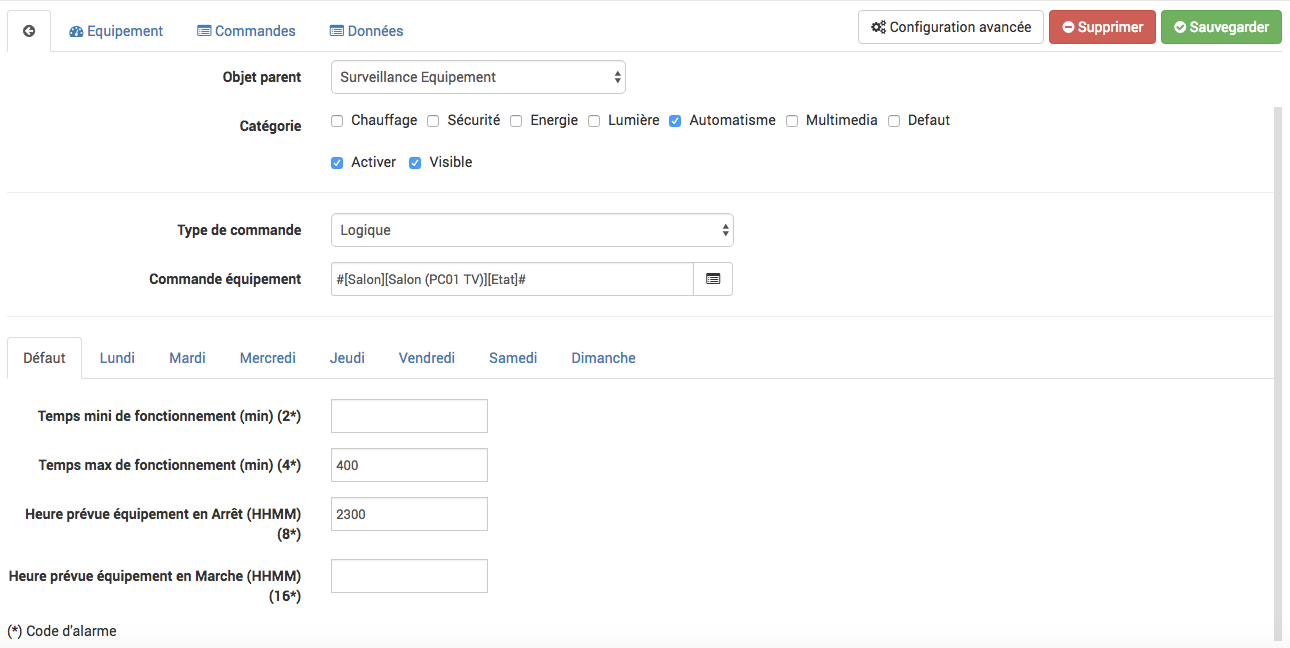
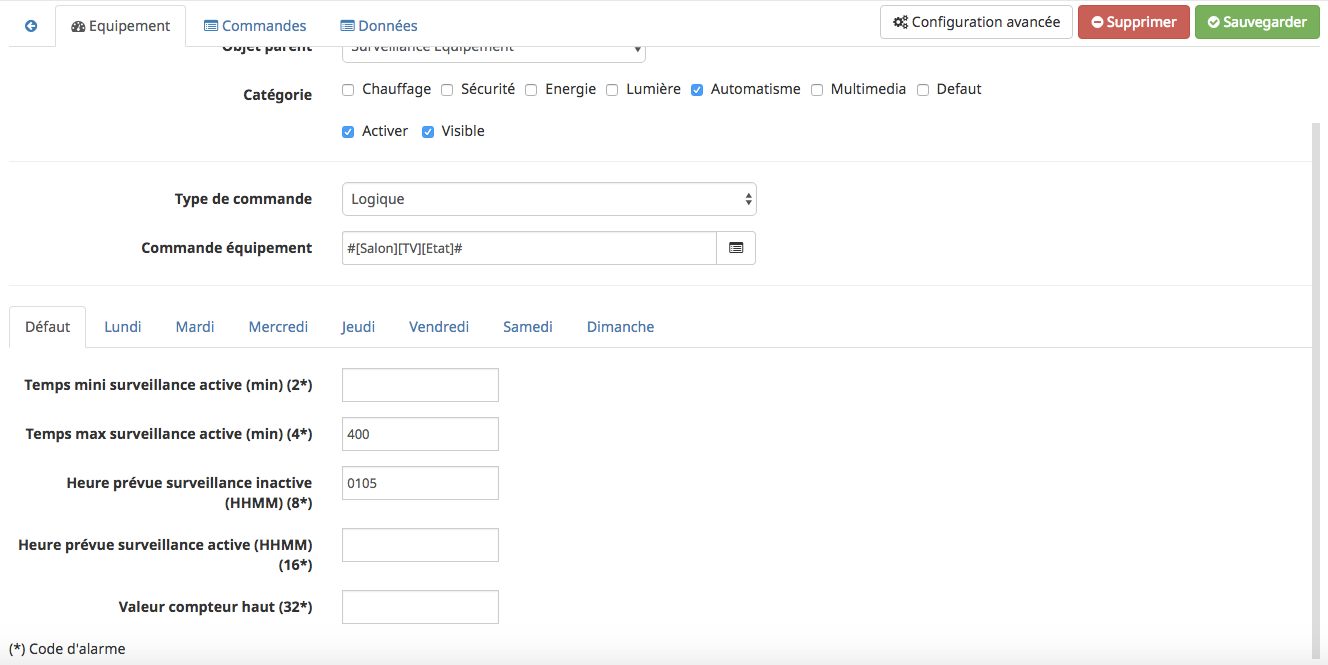
[ROBOT] Push html doc

diff --git a/third_plugin/ethalsurveillance/fr_FR/index.html b/third_plugin/ethalsurveillance/fr_FR/index.html
@@ -1079,18 +1079,18 @@ Si la commande <strong>Alarme</strong> est déja à ON , et qu&#8217;une nouvell
 <p><strong>Commande équipement</strong> : mettre la commande état de la prise qui commande votre télévision</p>
 </li>
 <li>
-<p><strong>Temps min de fonctionnement</strong> : laisser vide</p>
+<p><strong>Temps mini surveillance active</strong> : laisser vide</p>
 </li>
 <li>
-<p><strong>Temps max de fonctionnement</strong> (minutes) : mettre par exemple 400</p>
+<p><strong>Temps max surveillance active</strong> (minutes) : mettre par exemple 400</p>
 </li>
 <li>
-<p><strong>Heure prévue équipement en Arrêt (HHMM)</strong> : mettre par exemple 2300</p>
+<p><strong>Heure prévue surveillance inactive</strong> : mettre par exemple 0105</p>
 </li>
 </ul>
 </div>
 <div class="paragraph">
-<p>Cela signifie que la commande <strong>Alarme</strong> passera à 1 au bout de 400 minutes (soit 6 heures et 40 minutes, cela commence à faire beaucoup ;)) ou à 23H00 si la commande <strong>Etat</strong> est toujours à ON (c&#8217;est à dire votre TV est toujours allumée).
+<p>Cela signifie que la commande <strong>Alarme</strong> passera à 1 au bout de 400 minutes (soit 6 heures et 40 minutes, cela commence à faire beaucoup ;)) ou à 01H05 si la commande <strong>Etat</strong> est toujours à ON (c&#8217;est à dire votre TV est toujours allumée).
 Le compteur sera incrémenté à chaque passage à ON de votre commande.</p>
 </div>
 <div class="paragraph">
@@ -1126,21 +1126,21 @@ Le compteur sera incrémenté à chaque passage à ON de votre commande.</p>
 <p><strong>Compteur général</strong> : coché</p>
 </li>
 <li>
-<p><strong>Heure de fonctionnement pévu</strong> : mettre l&#8217;heure prévue de mise en route de votre chauffe-eau (ex : 2330)</p>
+<p><strong>Heure de surveillance prévue</strong> : mettre l&#8217;heure prévue de mise en route de votre chauffe-eau (ex : 2330)</p>
 </li>
 <li>
-<p><strong>Puissance équipement</strong> : mettre une valeur légérement inférieur à la puissance de votre chauffe-eau (ex : si votre chauffe eau est un 2000W , mettre 1800)</p>
+<p><strong>Valeur surveillance active</strong> : mettre une valeur légérement inférieur à la puissance de votre chauffe-eau (ex : si votre chauffe eau est un 2000W , mettre 1800)</p>
 </li>
 <li>
-<p><strong>Temps min de fonctionnement</strong> (minutes) : mettre par exemple 20</p>
+<p><strong>Temps mini surveillance active</strong> (minutes) : mettre par exemple 20</p>
 </li>
 <li>
-<p><strong>Temps max de fonctionnement</strong> (minutes) : mettre par exemple 240</p>
+<p><strong>Temps max surveillance active</strong> (minutes) : mettre par exemple 360</p>
 </li>
 </ul>
 </div>
 <div class="paragraph">
-<p>cela signifie que la commande <strong>Alarme</strong> passera à ON à 00:10 (23h30+20 minutes) si l&#8217;équipement n&#8217;a pas demarré ou si son temps de fonctionnement est inférieur à 20 minutes ou supérieur à 4 heures.</p>
+<p>cela signifie que la commande <strong>Alarme</strong> passera à ON à 00:10 (23h30+20 minutes) si l&#8217;équipement n&#8217;a pas demarré ou si son temps de fonctionnement est inférieur à 20 minutes ou supérieur à 6 heures.</p>
 </div>
 <div class="paragraph">
 <p>Pour un widget personalisé à l&#8217;équipement, selectionnez les commandes comme ci-dessous :</p>
@@ -1175,28 +1175,26 @@ Le compteur sera incrémenté à chaque passage à ON de votre commande.</p>
 <p><strong>Compteur général</strong> : non coché</p>
 </li>
 <li>
-<p><strong>Puissance mini</strong> (Watt) : si votre lave-linge consomme environ 10W mini pendant un cyle, mettre 10</p>
+<p><strong>Valeur surveillance inactive</strong> : si votre lave-linge consomme environ 10W mini pendant un cyle, mettre 10</p>
 </li>
 <li>
-<p><strong>Délai Puissance mini</strong> (Watt) : il est possible que le lave-linge passe en dessous de la puissance mini pendant un cycle, dans ce cas mettre par exemple 12, il faudra alors que la valeur de la puissance mini soit à 10W pendant 12 min pour être prise en compte</p>
+<p><strong>Délai valeur surveillance inactive</strong> : il est possible que le lave-linge passe en dessous de la puissance mini pendant un cycle, dans ce cas mettre par exemple 12, il faudra alors que la valeur de la puissance mini soit à 10W pendant 12 min pour être prise en compte</p>
 </li>
 <li>
-<p><strong>Puissance maxi</strong> (Watt) : si votre lave-linge consomme environ 100W au démarrage d&#8217;un cyle, mettre 100</p>
+<p><strong>Valeur surveillance active</strong> : si votre lave-linge consomme environ 200W au démarrage d&#8217;un cyle, mettre 200</p>
 </li>
 <li>
-<p><strong>Temps min de fonctionnement</strong> : laisser vide ou non</p>
-</li>
-<li>
-<p><strong>Temps max de fonctionnement</strong> : laisser vide ou non</p>
+<p><strong>Valeur compteur haut</strong> : par exemple 40,</p>
 </li>
 </ul>
 </div>
 <div class="paragraph">
-<p>le compteur sera incrémenté de 1, la commande <strong>Etat</strong> passera à ON, si la valeur mesure de puissance est supérieure à 100W,
+<p>le compteur sera incrémenté de 1, la commande <strong>Etat</strong> passera à ON, si la valeur mesure de puissance est supérieure à 200W,
 le cycle sera considéré comme terminé si la mesure de puissance est inférieure à 10W , et que celle ci soit continuellement inférieur à 10W  pendant 12 min, la commande <strong>Etat</strong> passera alors à OFF.</p>
 </div>
 <div class="paragraph">
-<p>Si les champs <strong>Temps min de fonctionnement</strong> ou <strong>Temps max de fonctionnement</strong> ne sont pas vides, la commande <strong>Alarme</strong> passera à ON suivant la valeur de la commande <strong>Temps Fct</strong>.</p>
+<p>la commande <strong>Alarme</strong> passera à ON quand la valeur de la commande <strong>Compteur</strong> sera supérieur au paramètre <strong>Valeur compteur haut</strong>,
+c&#8217;est utile pour la maintenance du lave linge,</p>
 </div>
 <div class="paragraph">
 <p>Pour un widget personalisé à l&#8217;équipement, selectionner les commandes comme ci-dessous :</p>
@@ -1257,7 +1255,7 @@ le cycle sera considéré comme terminé si la mesure de puissance est inférieu
 </div>
 </li>
 <li>
-<p>Version 1.9 (en cours de developpement)</p>
+<p>Version 1.9 (version market : 2017-06-30)</p>
 <div class="ulist">
 <ul>
 <li>
